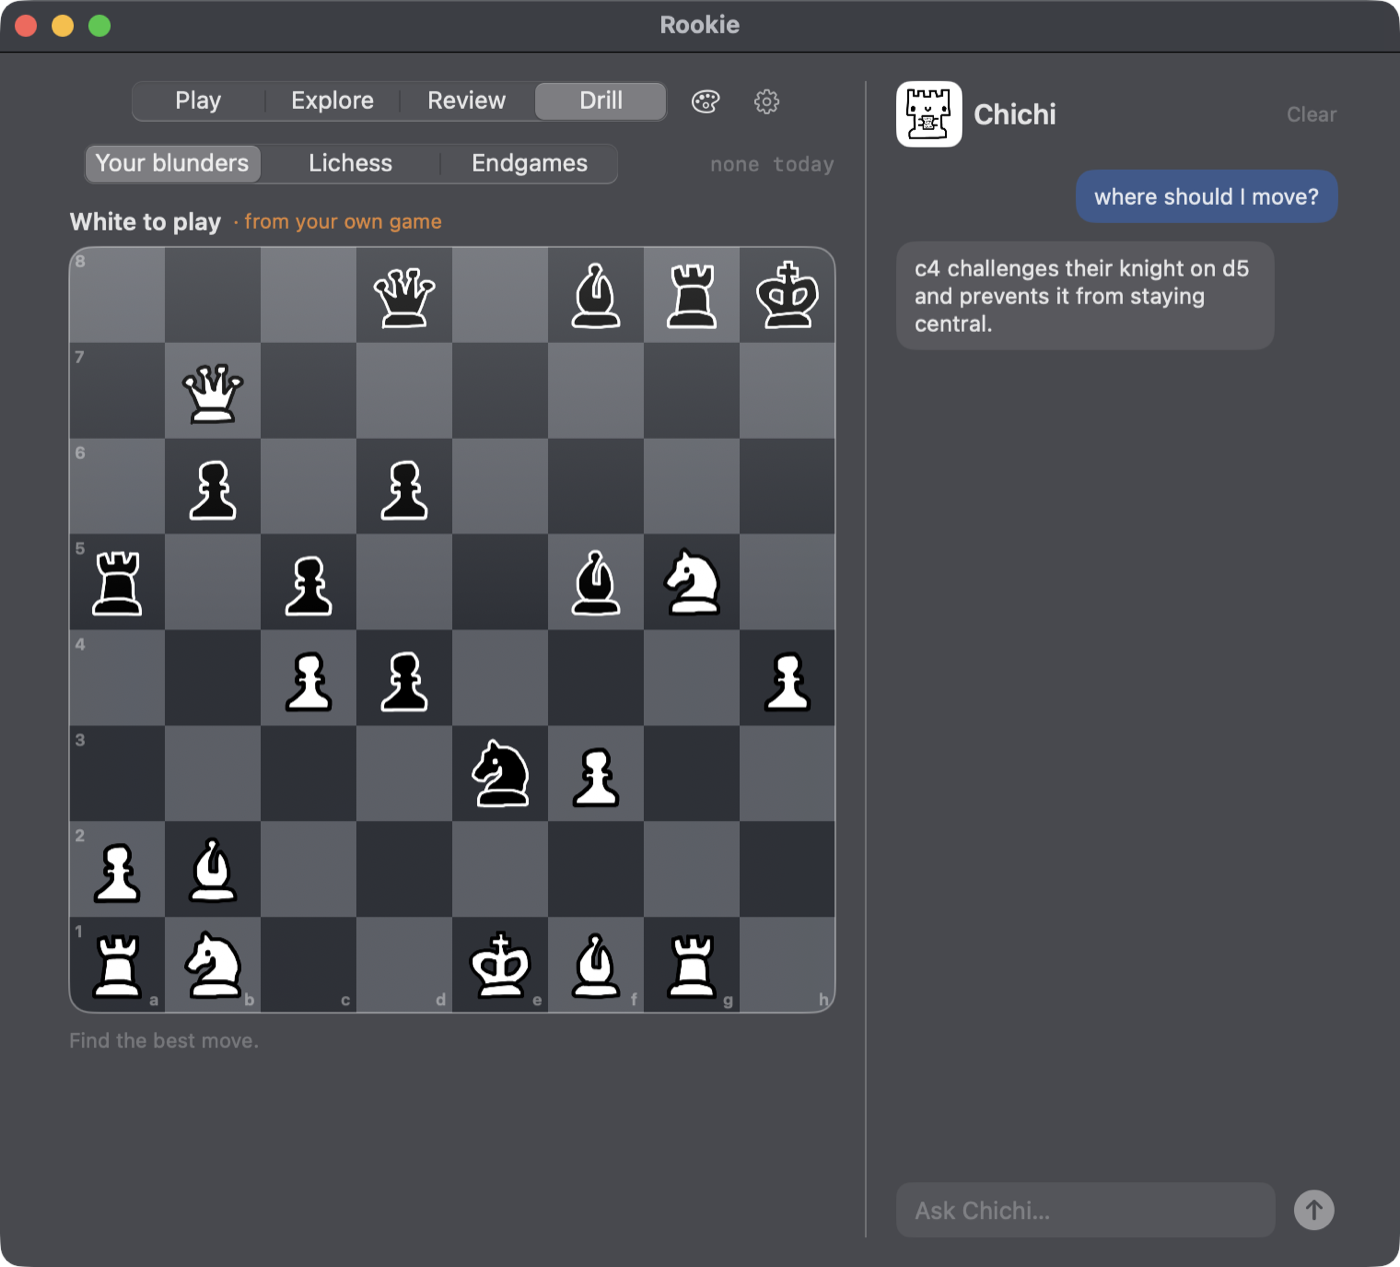
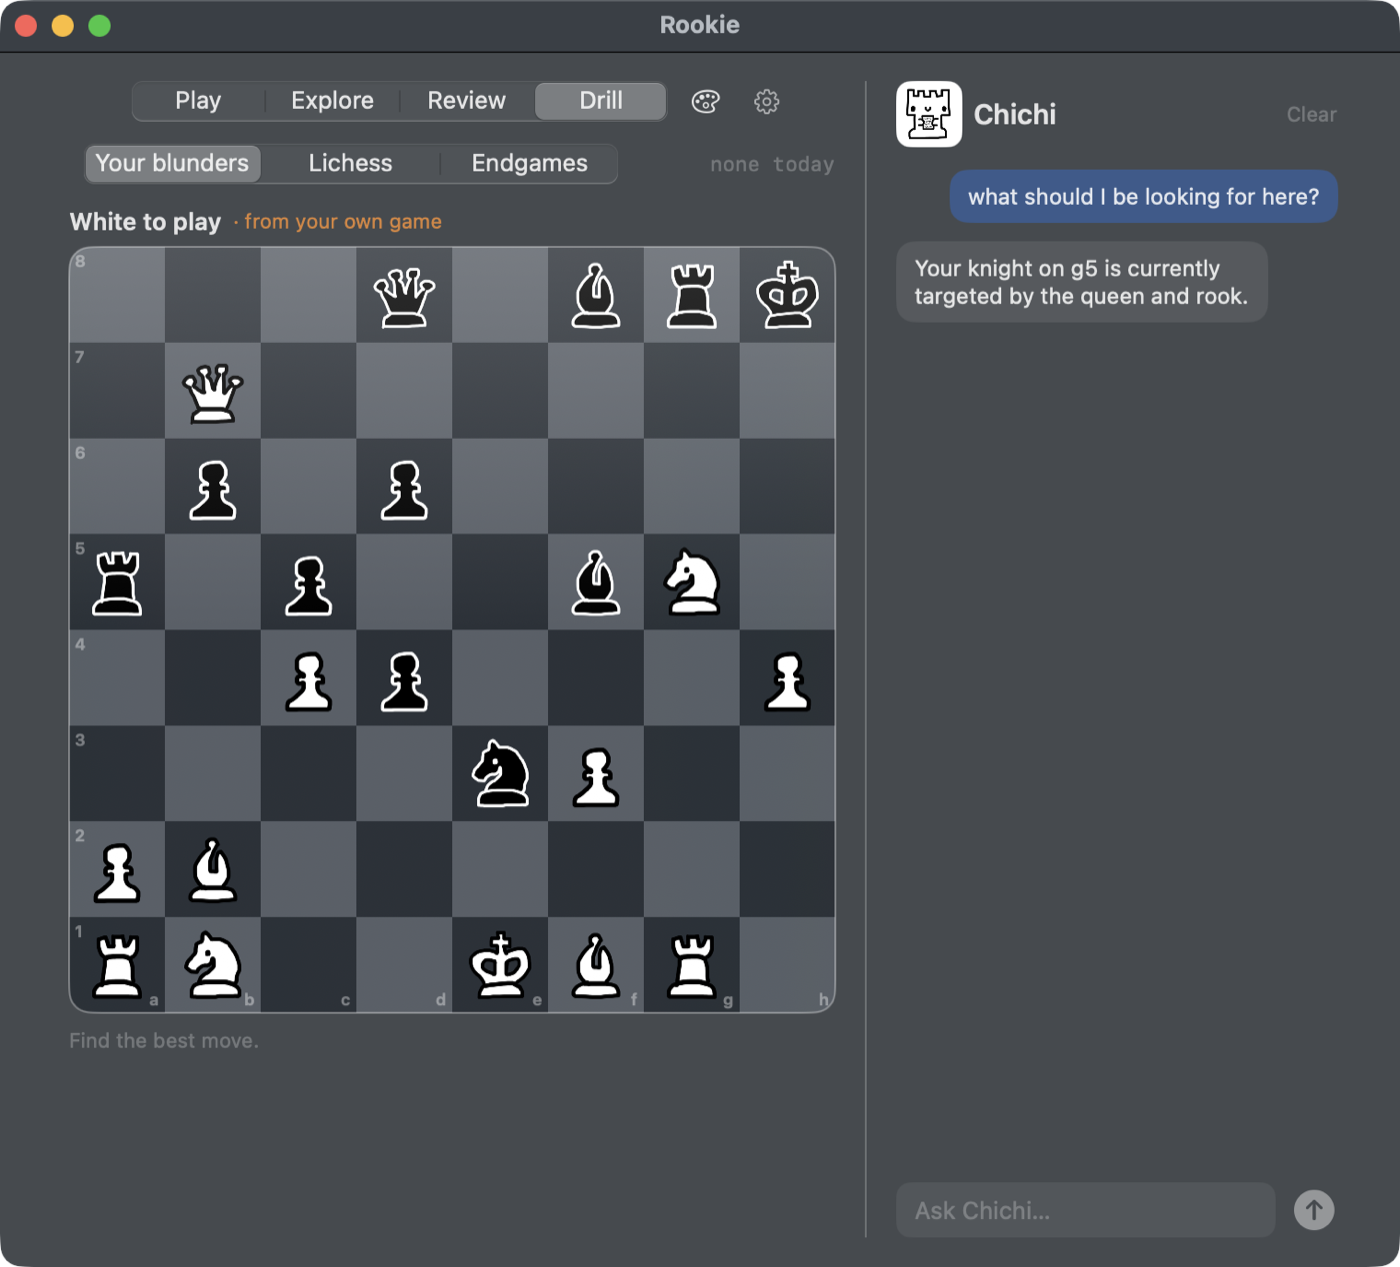
Screenshots, a status row that fits, and a placeholder that stops losing its A

Changed region(s): [[0.645, 0.1231, 0.9214, 0.277]]

diff --git a/Sources/ChessCoach/CardView.swift b/Sources/ChessCoach/CardView.swift
@@ -19,6 +19,7 @@ struct CardView: View {
     @EnvironmentObject var endgame: EndgameStore
     @State private var mode: BoardMode = .play
     @FocusState private var searchFocused: Bool
+    @FocusState private var chatFocused: Bool
     @State private var showingSettings = false
 
     var body: some View {
@@ -363,13 +364,14 @@ struct CardView: View {
         VStack(spacing: 8) {
             VStack(spacing: 6) {
             HStack(spacing: 8) {
-                // The news of the game, so it wins the row: without the
-                // priority it lost to the pickers and read "Checkmate, engine…".
+                // Every status is short enough to fit beside the pickers and the
+                // button: the row is 416pt and they take about 260 of it. Giving
+                // this text priority instead only moved the truncation along, to
+                // a "New Game" button that read "New…".
                 Text(playStatusText)
                     .font(.system(size: 13, weight: .semibold))
                     .foregroundStyle(.primary)
-                    .fixedSize(horizontal: true, vertical: false)
-                    .layoutPriority(1)
+                    .lineLimit(1)
                 Spacer(minLength: 4)
                 colourPicker
                 levelPicker
@@ -377,6 +379,7 @@ struct CardView: View {
                     chat.divider("New game")
                     game.newGame()
                 }
+                    .fixedSize()
                     .buttonStyle(.plain)
                     .font(.system(size: 12))
                     .padding(.horizontal, 8)
@@ -648,8 +651,7 @@ struct CardView: View {
     private var playStatusText: String {
         if game.awaitingCoach { return "Chichi is thinking\u{2026}" }
         switch game.status {
-        case "no game yet":
-            return "New Game to start, as \(game.preferredColour)"
+        case "no game yet": return "No game yet"
         case "ongoing": return "Your move"
         case "check": return "Check!"
         case "stalemate": return "Stalemate, a draw"
@@ -657,10 +659,15 @@ struct CardView: View {
         case let s where s.hasPrefix("checkmate_"):
             let winner = s.hasPrefix("checkmate_white") ? "white" : "black"
             return winner == game.myColour
-                ? "Checkmate, you win ♜" : "Checkmate, engine wins"
+                ? "Checkmate, you win ♜" : "Checkmate, they win"
         case let s where s.hasPrefix("draw"): return "Draw"
         default: return game.status
         }
+    }
+
+    private func sendChat() {
+        chat.send()
+        chatFocused = false
     }
 
     private var chatPanel: some View {
@@ -707,14 +714,18 @@ struct CardView: View {
             }
 
             HStack(spacing: 8) {
+                // Dropping focus on send is not a flourish: the field keeps its
+                // scroll offset after the text is cleared, so the placeholder
+                // came back as "sk Chichi…" with the A scrolled out of sight.
                 TextField("Ask Chichi…", text: $chat.draft)
                     .textFieldStyle(.plain)
                     .padding(.horizontal, 10)
                     .padding(.vertical, 7)
                     .background(Color.primary.opacity(0.08))
                     .clipShape(RoundedRectangle(cornerRadius: 8))
-                    .onSubmit { chat.send() }
-                Button(action: chat.send) {
+                    .focused($chatFocused)
+                    .onSubmit { sendChat() }
+                Button(action: sendChat) {
                     Image(systemName: "arrow.up.circle.fill")
                         .font(.system(size: 22))
                 }
